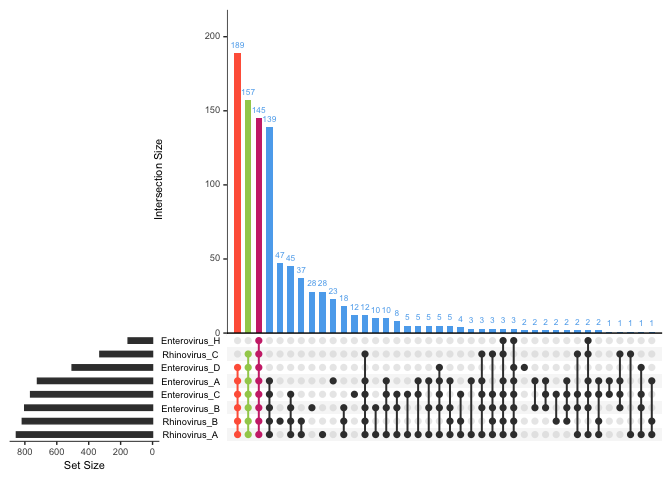
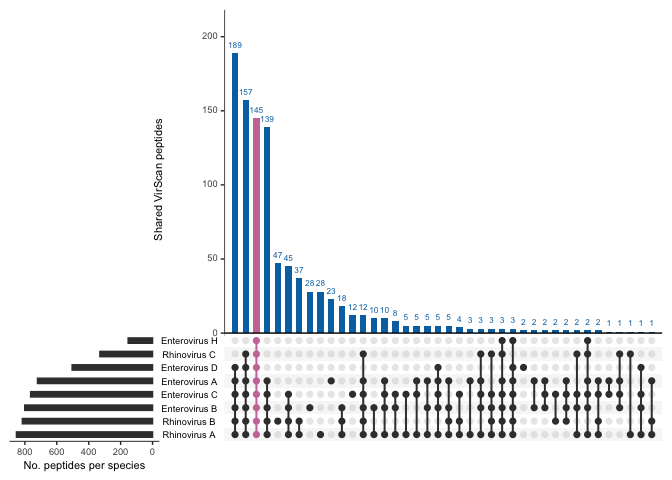
tidied upset plot

diff --git a/04_avarda_figures_cross_reactivity.md b/04_avarda_figures_cross_reactivity.md
@@ -1,5 +1,5 @@
 
-# Generate figures using the AVARDA output from the ENDIA cohort
+# Generate figures using the AVARDA output from the ENDIA cohort examining cross reactivity and indistinguishable viruses
 
 This replicates:
 
@@ -47,7 +47,8 @@ endia_onset_ev_peptides <- endia_avarda_onset %>%
   filter(genus == "Enterovirus") %>% 
   unite(peptides, Evidence.Peptides, XR.peptides, sep = "|") %>%
   separate_longer_delim(peptides, delim = "|") %>% 
-  filter(species != "Human_enterovirus")
+  filter(species != "Human_enterovirus") %>% 
+  mutate(species = str_replace_all(species, "_", " "))
 
 endia_ev_species_pep_list <- endia_onset_ev_peptides %>% 
  group_by(species) %>% 
@@ -58,18 +59,34 @@ endia_ev_species_pep_list <- endia_onset_ev_peptides %>%
 Plot the UpSet plot
 
 ``` r
-upset(fromList(endia_ev_species_pep_list), order.by = "freq",
-      nsets = 8,
-      main.bar.color = "steelblue2",
-      queries = list(list(query = intersects, params = list("Rhinovirus_A",  "Rhinovirus_B","Enterovirus_B", "Enterovirus_C", "Enterovirus_D", 
-                                                            "Enterovirus_A", "Enterovirus_H", "Rhinovirus_C"), color = "violetred3", active = TRUE),
-                     list(query = intersects, params = list("Rhinovirus_A",  "Rhinovirus_B","Enterovirus_B", "Enterovirus_C", "Enterovirus_D", 
-                                                            "Enterovirus_A"), color = "tomato", active = TRUE),
-                     list(query = intersects, params = list("Rhinovirus_A",  "Rhinovirus_B","Enterovirus_B", "Enterovirus_C", "Enterovirus_D", 
-                                                            "Enterovirus_A", "Rhinovirus_C"), color = "darkolivegreen3", active = TRUE)))
+upset(
+  fromList(endia_ev_species_pep_list),
+  order.by = "freq",
+  nsets = 8,
+  main.bar.color = "#0072B2",
+  sets.x.label = "No. peptides per species",
+  mainbar.y.label = "Shared VirScan peptides",
+  queries = list(
+    list(
+      query = intersects,
+      params = list("Rhinovirus A", "Rhinovirus B", "Enterovirus B", "Enterovirus C", 
+                    "Enterovirus D", "Enterovirus A", "Enterovirus H", "Rhinovirus C"),
+      color = "#CC79A7",
+      active = TRUE )))
 ```
 
 ![](04_avarda_figures_cross_reactivity_files/figure-gfm/unnamed-chunk-5-1.png)<!-- -->
+
+**Extended Data Figure 4:** Cross-reactivity of detected EV peptides by
+AVARDA UpSet plot illustrating all *Enterovirus* genus peptides detected
+in the ENDIA dataset after being processed using the AVARDA algorithm,
+and their assignment to specific viral species. Each vertical bar (top)
+represents the total number of *Enterovirus* peptides shared by each
+species, ordered by decreasing count. The pink bar highlights the number
+of peptides shared across all eight Enterovirus species. The black
+horizontal bars (left) indicate the total number of peptides assigned to
+each individual *Enterovirus* species. Only classified *Enterovirus*
+species were included.
 
 ### Snippets
 
